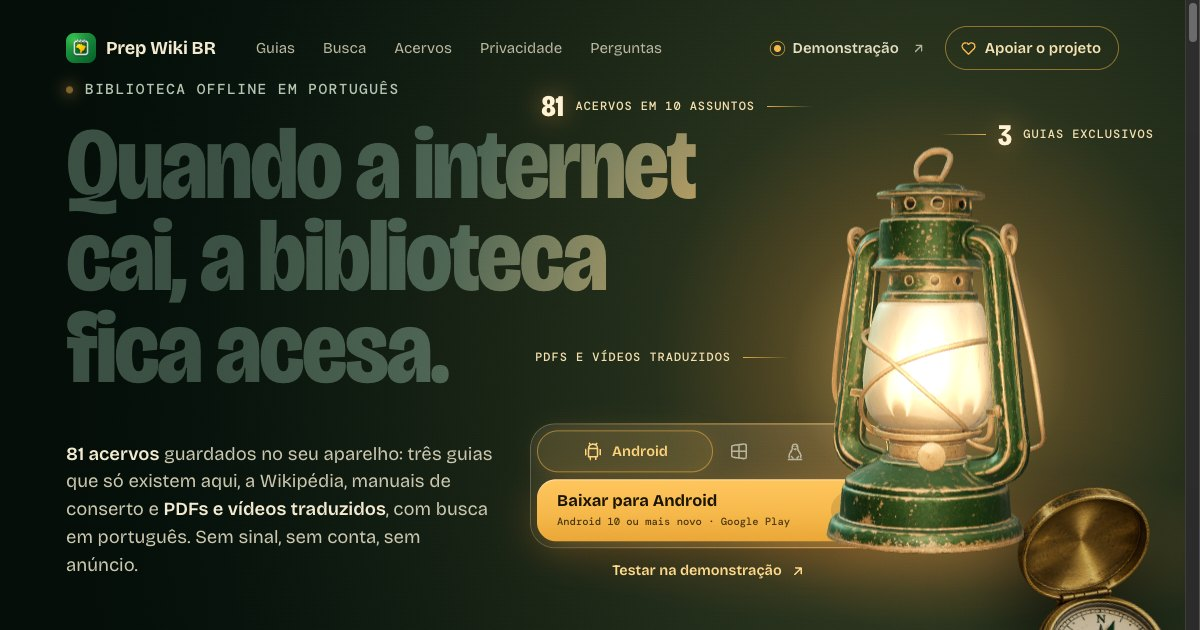
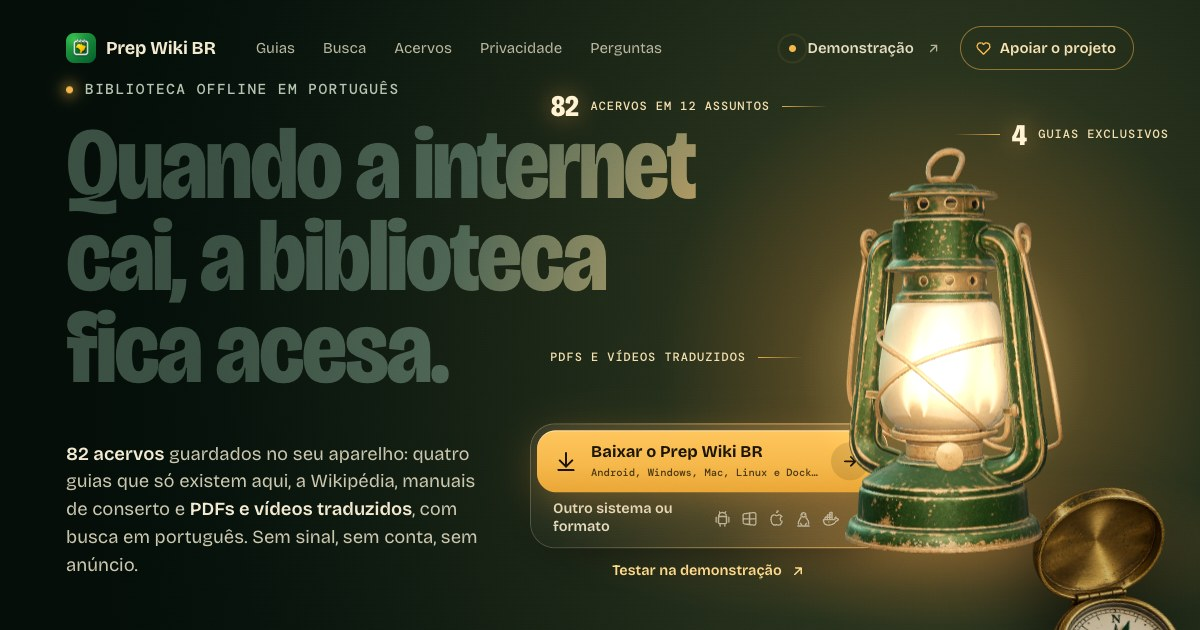
Site: quarto guia em destaque, 82 acervos em 12 assuntos e share nova
O "Lugares seguros no Brasil" abre a seção de guias numa folha deitada,
com selo de novo. Números, lista de acervos e imagem de compartilhamento
acompanham o catálogo (versão 11).

diff --git a/site/index.html b/site/index.html
@@ -4,7 +4,7 @@
 <meta charset="utf-8">
 <meta name="viewport" content="width=device-width, initial-scale=1">
 <title>Prep Wiki BR · biblioteca offline em português</title>
-<meta name="description" content="Uma biblioteca de preparação, autonomia e saúde que funciona sem internet, em português. 81 acervos, três guias próprios e busca dentro de PDFs e vídeos traduzidos.">
+<meta name="description" content="Uma biblioteca de preparação, autonomia e saúde que funciona sem internet, em português. 82 acervos, quatro guias próprios e busca dentro de PDFs e vídeos traduzidos.">
 <link rel="canonical" href="https://prep.bigode.org/">
 <meta name="theme-color" content="#050e09">
 <meta name="color-scheme" content="dark">
@@ -16,7 +16,7 @@
 <meta property="og:type" content="website">
 <meta property="og:url" content="https://prep.bigode.org/">
 <meta property="og:title" content="Prep Wiki BR · biblioteca offline em português">
-<meta property="og:description" content="Quando a internet cai, a biblioteca fica acesa. 81 acervos, três guias próprios e busca dentro de PDFs e vídeos traduzidos.">
+<meta property="og:description" content="Quando a internet cai, a biblioteca fica acesa. 82 acervos, quatro guias próprios e busca dentro de PDFs e vídeos traduzidos.">
 <meta property="og:image" content="https://prep.bigode.org/share.jpg">
 <meta name="twitter:card" content="summary_large_image">
 <link rel="icon" href="favicon.svg">
@@ -105,7 +105,7 @@
   .rolar i { width: 1px; height: 34px; background: linear-gradient(#7f927f, transparent); animation: desce 1.8s ease-in-out infinite; transform-origin: top; }
   @keyframes desce { 0% { transform: scaleY(0); } 60% { transform: scaleY(1); } 100% { transform: scaleY(1); opacity: 0; } }
 
-  /* segunda tela: três folhas de papel iluminadas */
+  /* segunda tela: folhas de papel iluminadas; a do guia mais novo abre a seção, deitada */
   .guias { position: relative; z-index: 1; padding: 14vh 5.5vw 20vh; }
   .guias h2 { font-size: clamp(38px, 5.4vw, 92px); line-height: .92; letter-spacing: -.03em; font-weight: 800; font-stretch: 84%; max-width: 13ch;
     /* o título da segunda tela também é iluminado de cima, pelo mesmo lampião */
@@ -122,6 +122,19 @@
   .folha h3 { margin: 0 10px; font-size: 27px; line-height: 1.02; letter-spacing: -.025em; font-weight: 700; font-stretch: 86%; }
   .guias__nota { margin-top: 5vh; font-size: 16px; color: #9fb39f; } .guias__nota a { color: #f4dfae; text-decoration: underline; text-decoration-color: rgba(246,183,74,.5); text-underline-offset: 4px; }
   .folha p { margin: 10px 10px 0; font-size: 15.5px; line-height: 1.45; color: #45523f; }
+  .folha { position: relative; }
+  .folha--destaque { --r: -1.4deg; }
+  .folha .folha__novo { position: absolute; z-index: 2; top: 26px; left: 26px; margin: 0; padding: 9px 14px 8px; border-radius: 999px; background: var(--ambar); color: #1c1403; line-height: 1; letter-spacing: .1em; box-shadow: 0 8px 20px rgba(0,0,0,.28); }
+  .folha .folha__fatos { display: flex; flex-wrap: wrap; gap: 8px; margin: 18px 10px 0; padding: 0; list-style: none; }
+  .folha__fatos li { padding: 9px 13px 8px; border: 1px solid rgba(23,36,26,.28); border-radius: 999px; color: #17241a; font-size: 11.5px; line-height: 1; }
+  @media (min-width: 901px) {
+    .folha--destaque { grid-column: 1 / -1; display: grid; grid-template-columns: minmax(0, 1.2fr) minmax(0, 1fr); grid-template-rows: 1fr auto auto auto auto 1fr; column-gap: 3.2vw; padding: 16px; margin-bottom: 14px; --r: -.35deg; }
+    .folha--destaque figure { grid-column: 1; grid-row: 1 / -1; aspect-ratio: 16 / 9; }
+    .folha--destaque > p.mono { grid-column: 2; grid-row: 2; margin: 0 0 14px; }
+    .folha--destaque h3 { grid-column: 2; grid-row: 3; margin: 0; max-width: 14ch; font-size: clamp(34px, 3.5vw, 58px); line-height: .96; text-wrap: balance; }
+    .folha--destaque > p:not(.mono) { grid-column: 2; grid-row: 4; margin: 18px 24px 0 0; max-width: 38ch; font-size: 18px; }
+    .folha--destaque .folha__fatos { grid-column: 2; grid-row: 5; margin: 24px 0 0; }
+  }
 
   /* ---- componente de baixar ---- */
   .baixa, .ab svg { fill: none; stroke: currentColor; stroke-linecap: round; stroke-linejoin: round; }
@@ -341,6 +354,7 @@
     .nota, .bussola, .rolar { display: none; }
     :root { --lx: 70vw; --ly: 70vh; }
     .folhas { grid-template-columns: minmax(0, 1fr); }
+    .folha .folha__fatos { gap: 6px; } .folha__fatos li { padding: 8px 10px 7px; font-size: 10.5px; letter-spacing: .05em; }
   }
   /* no celular a primeira tela tem a altura do texto e o lampião fica preso ao cartão de baixar: ao lado
      dele, com a argola na altura do topo do cartão. Antes a posição dependia da altura da janela, e num
@@ -379,7 +393,7 @@
         <span class="l"><span>fica acesa.</span></span>
       </h1>
       <div class="base">
-        <p><b>81 acervos</b> guardados no seu aparelho: três guias que só existem aqui, a Wikipédia, manuais de conserto e <b>PDFs e vídeos traduzidos</b>, com busca em português. Sem sinal, sem conta, sem anúncio.</p>
+        <p><b>82 acervos</b> guardados no seu aparelho: quatro guias que só existem aqui, a Wikipédia, manuais de conserto e <b>PDFs e vídeos traduzidos</b>, com busca em português. Sem sinal, sem conta, sem anúncio.</p>
         <div class="lado">
           <div class="ab">
             <a class="ab__bt" href="baixar.html"><svg class="ab__so" viewBox="0 0 24 24" aria-hidden="true"><path d="M12 4v12M6 11l6 6 6-6M5 20h14"/></svg><span><b class="ab__txt">Baixar o Prep Wiki BR</b><small class="ab__sub">Android, Windows, Mac, Linux e Docker</small></span><svg class="baixa" viewBox="0 0 24 24" aria-hidden="true"><path d="M5 12h14M13 6l6 6-6 6"/></svg></a>
@@ -391,21 +405,22 @@
     </div>
 
     <div class="luz" id="luz"><img class="reserva" src="img/lampiao.png" alt=""><canvas id="lampiao" aria-hidden="true"></canvas></div>
-    <p class="nota nota--dir n1 mono"><b>81</b> acervos em 10 assuntos</p>
-    <p class="nota n2 mono"><b>3</b> guias exclusivos</p>
+    <p class="nota nota--dir n1 mono"><b>82</b> acervos em 12 assuntos</p>
+    <p class="nota n2 mono"><b>4</b> guias exclusivos</p>
     <p class="nota nota--dir n3 mono">PDFs e vídeos traduzidos</p>
     <img class="bussola" src="img/bussola.png" alt="">
     <p class="rolar mono"><i></i>Role para ver os guias</p>
   </section>
 
   <section class="guias" id="guias">
-    <h2>Três guias que <em>só existem aqui.</em></h2>
+    <h2>Quatro guias que <em>só existem aqui.</em></h2>
     <div class="folhas">
-      <article class="folha" style="--r:-2.2deg;--d:0s"><figure><img src="img/sisteminha.jpg" alt="Gravura de um quintal com tanque de peixes, galinheiro e horta" loading="lazy"></figure><p class="mono">Guia · Embrapa · 16 MB</p><h3>Sisteminha: comida no quintal</h3><p>Tanque de peixes com biofiltro, aves, horta e compostagem. Com as 52 perguntas e respostas da Embrapa e uma calculadora de ração.</p></article>
-      <article class="folha" style="--r:.8deg;--d:.1s"><figure><img src="img/plantas.jpg" alt="Gravura de plantas medicinais ao lado de um pilão" loading="lazy"></figure><p class="mono">Guia · Anvisa · 29 MB</p><h3>85 plantas medicinais</h3><p>Fórmula, preparo, dose, advertências e foto de cada planta do Formulário de Fitoterápicos, mais cultivo e uso seguro no SUS.</p></article>
-      <article class="folha" style="--r:2.4deg;--d:.2s"><figure><img src="img/chuva.jpg" alt="Gravura de uma casa no morro sob tempestade" loading="lazy"></figure><p class="mono">Guia · 36 páginas</p><h3>Chuva forte e tempestade</h3><p>O que fazer antes, durante e depois de enchente, deslizamento, vendaval e raio. Cada orientação traz a fonte.</p></article>
+      <article class="folha folha--destaque" style="--d:0s"><span class="folha__novo mono">Novo</span><figure><img src="img/lugares.jpg" alt="Gravura de uma casa no campo com araucárias, horta e caixa-d'água; na frente, um mapa, uma bússola e um binóculo" loading="lazy"></figure><p class="mono">Guia · 64 páginas</p><h3>Lugares seguros no Brasil</h3><p>Onde morar com mais segurança no longo prazo. A nota dos 27 estados em crime, desastres, densidade e autossuficiência, num mapa, com regiões e rotas de fuga.</p><ul class="folha__fatos mono"><li>27 estados</li><li>5 regiões</li><li>8 critérios</li></ul></article>
+      <article class="folha" style="--r:-2.2deg;--d:.1s"><figure><img src="img/sisteminha.jpg" alt="Gravura de um quintal com tanque de peixes, galinheiro e horta" loading="lazy"></figure><p class="mono">Guia · Embrapa · 16 MB</p><h3>Sisteminha: comida no quintal</h3><p>Tanque de peixes com biofiltro, aves, horta e compostagem. Com as 52 perguntas e respostas da Embrapa e uma calculadora de ração.</p></article>
+      <article class="folha" style="--r:.8deg;--d:.2s"><figure><img src="img/plantas.jpg" alt="Gravura de plantas medicinais ao lado de um pilão" loading="lazy"></figure><p class="mono">Guia · Anvisa · 29 MB</p><h3>85 plantas medicinais</h3><p>Fórmula, preparo, dose, advertências e foto de cada planta do Formulário de Fitoterápicos, mais cultivo e uso seguro no SUS.</p></article>
+      <article class="folha" style="--r:2.4deg;--d:.3s"><figure><img src="img/chuva.jpg" alt="Gravura de uma casa no morro sob tempestade" loading="lazy"></figure><p class="mono">Guia · 36 páginas</p><h3>Chuva forte e tempestade</h3><p>O que fazer antes, durante e depois de enchente, deslizamento, vendaval e raio. Cada orientação traz a fonte.</p></article>
     </div>
-    <p class="guias__nota">Escritos a partir de publicações oficiais. Os três somam 46 MB e também abrem em qualquer Kiwix. O Sisteminha e as Plantas Medicinais estão na <a href="https://prep-demo.bigode.org/" target="_blank" rel="noopener">demonstração</a>.</p>
+    <p class="guias__nota">Três vêm de publicações oficiais; o Lugares seguros cruza dados públicos com os critérios de dois livros sobre onde morar. Os quatro somam 47 MB, abrem em qualquer Kiwix e estão na <a href="https://prep-demo.bigode.org/" target="_blank" rel="noopener">demonstração</a>.</p>
   </section>
   <section class="sec busca" id="busca">
     <div class="foco" style="--x:50%;--y:48%"></div>
@@ -430,24 +445,26 @@
   <section class="sec acervos" id="acervos">
     <div class="foco" style="--x:84%;--y:34%"></div>
     <p class="sobre mono"><i></i>Lista escolhida</p>
-    <h2 class="aceso">81 acervos, em <em>10 assuntos.</em></h2>
+    <h2 class="aceso">82 acervos, em <em>12 assuntos.</em></h2>
     <p class="lead">Você instala só o que quiser. Cada acervo tem descrição em português e mostra o tamanho antes de baixar.</p>
     <div class="acervos__grade">
       <ol class="lista">
-          <li data-ver style="--d:0.00s"><span class="n">01</span><h3>Deste projeto<i></i></h3><span class="qt">3 acervos</span><p>Sisteminha Embrapa, Plantas Medicinais, Chuva forte e tempestade</p></li>
-          <li data-ver style="--d:0.05s"><span class="n">02</span><h3>Wikipédia<i></i></h3><span class="qt">6 edições</span><p>Completa ou só os 50 mil melhores artigos. Cada uma com imagens, sem imagens ou resumida</p></li>
-          <li data-ver style="--d:0.10s"><span class="n">03</span><h3>Wikipédia por tema<i></i></h3><span class="qt">9 acervos</span><p>Medicina, Química, Física, Matemática, Biologia molecular e celular, História, Geografia, Computação</p></li>
-          <li data-ver style="--d:0.15s"><span class="n">04</span><h3>Estudo<i></i></h3><span class="qt">4 acervos</span><p>Vikidia, Wikilivros, Wikiversidade e as simulações de ciências do PhET</p></li>
-          <li data-ver style="--d:0.20s"><span class="n">05</span><h3>Consertos<i></i></h3><span class="qt">1 acervo</span><p>iFixit, com guias de conserto passo a passo</p></li>
-          <li data-ver style="--d:0.25s"><span class="n">06</span><h3>Programação<i></i></h3><span class="qt">2 acervos</span><p>Stack Overflow em Português e freeCodeCamp</p></li>
-          <li data-ver style="--d:0.25s"><span class="n">07</span><h3>Livros e textos<i></i></h3><span class="qt">3 acervos</span><p>Wikisource, Projeto Gutenberg e Wikiquote</p></li>
-          <li data-ver style="--d:0.25s"><span class="n">08</span><h3>Língua e viagem<i></i></h3><span class="qt">3 acervos</span><p>Wikcionário, Portuguese Language Q&amp;A e Wikivoyage</p></li>
-          <li data-ver style="--d:0.25s"><span class="n">09</span><h3>Mapas<i></i></h3><span class="qt">2 acervos</span><p>Brasil e América do Sul, com estradas e pontos de referência</p></li>
-          <li data-ver style="--d:0.25s"><span class="n">10</span><h3>Prepper, em inglês<i></i></h3><span class="qt">48 acervos</span><p>Sobrevivência, água e comida, saúde, energia, consertos e vídeos. Abrem em português com o pacote de tradução</p></li>
+          <li data-ver style="--d:0.00s"><span class="n">01</span><h3>Deste projeto<i></i></h3><span class="qt">4 acervos</span><p>Sisteminha Embrapa, Plantas Medicinais, Chuva forte e tempestade, Lugares seguros no Brasil</p></li>
+          <li data-ver style="--d:0.05s"><span class="n">02</span><h3>Emergências e preparação<i></i></h3><span class="qt">15 acervos</span><p>Biblioteca pós-desastre, Ready.gov, manuais do Exército dos EUA, nós, rádio amador e canais de vídeo</p></li>
+          <li data-ver style="--d:0.10s"><span class="n">03</span><h3>Água, comida e horta<i></i></h3><span class="qt">10 acervos</span><p>Tratamento de água, conservas caseiras, horta, cozinha e estoque de comida</p></li>
+          <li data-ver style="--d:0.15s"><span class="n">04</span><h3>Saúde<i></i></h3><span class="qt">11 acervos</span><p>Wikipédia de Medicina, MedlinePlus, remédios de A a Z, saúde do viajante e medicina de campo</p></li>
+          <li data-ver style="--d:0.20s"><span class="n">05</span><h3>Energia e baixa tecnologia<i></i></h3><span class="qt">6 acervos</span><p>Low-tech Magazine, Appropedia, energypedia, CD3WD e Permacomputing</p></li>
+          <li data-ver style="--d:0.25s"><span class="n">06</span><h3>Consertos e habilidades<i></i></h3><span class="qt">8 acervos</span><p>iFixit, Restarters e perguntas e respostas sobre casa, carro, elétrica, marcenaria e bicicleta</p></li>
+          <li data-ver style="--d:0.25s"><span class="n">07</span><h3>Wikipédia<i></i></h3><span class="qt">6 edições</span><p>Completa ou só os 50 mil melhores artigos. Cada uma com imagens, sem imagens ou resumida</p></li>
+          <li data-ver style="--d:0.25s"><span class="n">08</span><h3>Estudo e ciências<i></i></h3><span class="qt">10 acervos</span><p>Vikidia, Wikilivros, Wikiversidade, PhET e a Wikipédia de Química, Física, Matemática, Biologia, História e Geografia</p></li>
+          <li data-ver style="--d:0.25s"><span class="n">09</span><h3>Programação e computação<i></i></h3><span class="qt">3 acervos</span><p>Stack Overflow em Português, freeCodeCamp e a Wikipédia de Computação</p></li>
+          <li data-ver style="--d:0.25s"><span class="n">10</span><h3>Livros e textos<i></i></h3><span class="qt">3 acervos</span><p>Wikisource, Projeto Gutenberg e Wikiquote</p></li>
+          <li data-ver style="--d:0.25s"><span class="n">11</span><h3>Língua e viagem<i></i></h3><span class="qt">3 acervos</span><p>Wikcionário, Portuguese Language Q&amp;A e Wikivoyage</p></li>
+          <li data-ver style="--d:0.25s"><span class="n">12</span><h3>Mapas e referência<i></i></h3><span class="qt">3 acervos</span><p>Brasil e América do Sul, com estradas e pontos de referência, e o CIA World Factbook</p></li>
       </ol>
       <div class="acervos__lado">
         <figure class="acervos__arte" data-ver><img src="img/caderno.jpg" alt="Caderno de campo com uma lista: água, lanterna, canivete, rádio, kit de primeiros socorros e mapa" loading="lazy" width="820" height="820"></figure>
-        <p class="acervos__nota">Um conjunto enxuto em português (os três guias, a Wikipédia dos 50 mil melhores artigos, Medicina, iFixit, Estudo e Língua e viagem) fica em torno de 8 GB.</p>
+        <p class="acervos__nota">Um conjunto enxuto em português (os quatro guias, a Wikipédia dos 50 mil melhores artigos, Medicina, iFixit, Estudo e Língua e viagem) fica em torno de 8 GB. Dos 82 acervos, 48 são em inglês e abrem em português com o pacote de tradução.</p>
       </div>
     </div>
     <div class="fontes" aria-label="Entre as fontes: Wikipédia, iFixit, Projeto Gutenberg, Wikcionário, Wikilivros, PhET, Wikivoyage, freeCodeCamp, Appropedia, Wikiversidade, Vikidia, CD3WD, Wikiquote, Stack Overflow, MedlinePlus, Low-tech Magazine">
@@ -498,7 +515,7 @@
     <div class="faq">
         <div class="faq__item aberto"><button type="button" aria-expanded="true">Precisa de internet para usar?<i></i></button><div class="faq__r"><div><p>Só para baixar. Depois de baixado, cada acervo abre, busca e traduz sem conexão.</p></div></div></div>
         <div class="faq__item"><button type="button" aria-expanded="false">Dá para testar antes de instalar?<i></i></button><div class="faq__r"><div><p>Dá. A <a href="https://prep-demo.bigode.org/" target="_blank" rel="noopener">demonstração ao vivo</a> abre no navegador com 7 acervos de exemplo, sem instalar nada.</p></div></div></div>
-        <div class="faq__item"><button type="button" aria-expanded="false">Quanto espaço ocupa?<i></i></button><div class="faq__r"><div><p>Você decide. Os três guias do projeto somam 46 MB, e um conjunto enxuto em português fica em torno de 8 GB. O tamanho de cada acervo aparece antes de baixar.</p></div></div></div>
+        <div class="faq__item"><button type="button" aria-expanded="false">Quanto espaço ocupa?<i></i></button><div class="faq__r"><div><p>Você decide. Os quatro guias do projeto somam 47 MB, e um conjunto enxuto em português fica em torno de 8 GB. O tamanho de cada acervo aparece antes de baixar.</p></div></div></div>
         <div class="faq__item"><button type="button" aria-expanded="false">Em quais aparelhos funciona?<i></i></button><div class="faq__r"><div><p>No celular, em Android 10 ou mais novo, de 64 bits. No computador, em Windows, Mac e Linux; veja <a href="baixar.html">como instalar</a> em cada um. Pelo Docker, roda num PC ou num Raspberry Pi 4 ou 5 e serve a casa toda pelo navegador; veja o <a href="docker.html">passo a passo</a>.</p></div></div></div>
         <div class="faq__item"><button type="button" aria-expanded="false">A tradução é confiável?<i></i></button><div class="faq__r"><div><p>É feita por máquina, dentro do aparelho, e serve para entender o texto. Em doses, medidas e números, confira o original, que fica a um toque.</p></div></div></div>
         <div class="faq__item"><button type="button" aria-expanded="false">É grátis mesmo?<i></i></button><div class="faq__r"><div><p>É. Não tem anúncio, cadastro nem versão paga. Quem quiser pode apoiar o projeto; o apoio não libera nada.</p></div></div></div>
@@ -540,7 +557,7 @@
 
 <footer class="rodape">
   <div><a class="marca" href="#"><img src="img/icone-96.png" alt="">Prep Wiki BR</a><p>Uma biblioteca de preparação, autonomia e saúde que funciona sem internet, em português.</p></div>
-  <div><h4>Guias</h4><ul><li><a href="#guias">Sisteminha Embrapa</a></li><li><a href="#guias">Plantas Medicinais</a></li><li><a href="#guias">Chuva forte e tempestade</a></li></ul></div>
+  <div><h4>Guias</h4><ul><li><a href="#guias">Sisteminha Embrapa</a></li><li><a href="#guias">Plantas Medicinais</a></li><li><a href="#guias">Chuva forte e tempestade</a></li><li><a href="#guias">Lugares seguros no Brasil</a></li></ul></div>
   <div><h4>Nesta página</h4><ul><li><a href="#busca">Busca</a></li><li><a href="#acervos">Acervos</a></li><li><a href="#passos">Como começar</a></li><li><a href="#perguntas">Perguntas</a></li></ul></div>
   <div><h4>Projeto</h4><ul><li><a href="baixar.html">Baixar e instalar</a></li><li><a href="docker.html">Instalar com Docker</a></li><li><a href="https://prep-demo.bigode.org/" target="_blank" rel="noopener">Demonstração ao vivo</a></li><li><a href="https://github.com/wdonega/prep-wiki-br" target="_blank" rel="noopener">Código no GitHub</a></li><li><a href="#apoiar">Apoiar o projeto</a></li><li><a href="https://github.com/wdonega/prep-wiki-br/issues" target="_blank" rel="noopener">Relatar um problema</a></li></ul></div>
   <div><h4>Termos</h4><ul><li><a href="https://github.com/wdonega/prep-wiki-br/blob/main/docs/privacidade.md" target="_blank" rel="noopener">Política de privacidade</a></li><li><a href="https://github.com/wdonega/prep-wiki-br/blob/main/docs/termos.md" target="_blank" rel="noopener">Termos de uso</a></li><li><a href="mailto:support@bigode.org">support@bigode.org</a></li></ul></div>
@@ -617,7 +634,8 @@
   }
   ajustar(); requestAnimationFrame(quadro);
 
-  new IntersectionObserver(function (es, o) { es.forEach(function (e) { if (e.isIntersecting) { e.target.classList.add('visto'); o.unobserve(e.target); } }); }, { threshold: .25 }).observe(document.getElementById('guias'));
+  // as folhas aparecem quando a primeira entra na tela; medir pela seção inteira falha em tela baixa, porque ela é alta
+  new IntersectionObserver(function (es, o) { es.forEach(function (e) { if (e.isIntersecting) { document.getElementById('guias').classList.add('visto'); o.unobserve(e.target); } }); }, { threshold: .2 }).observe(document.querySelector('#guias .folha'));
 })();
 </script>
 <script>

diff --git a/site/docker.html b/site/docker.html
@@ -247,7 +247,7 @@
     <div>
       <h2 class="aceso">Escolha e baixe os acervos</h2>
       <p class="txt">Marque o que interessa e clique em <b>Baixar</b>. Os downloads entram numa fila, um de cada vez, e cada acervo aparece na biblioteca assim que termina. Se a internet cair no meio, ele continua de onde parou.</p>
-      <p class="txt">Para começar leve: os três guias do projeto e uma Wikipédia resumida. Dá para baixar mais depois.</p>
+      <p class="txt">Para começar leve: os quatro guias do projeto e uma Wikipédia resumida. Dá para baixar mais depois.</p>
       <p class="nota">Quer ver como fica antes? A <a href="https://prep-demo.bigode.org/" target="_blank" rel="noopener">demonstração</a> é uma instalação igual a esta, com 7 acervos.</p>
     </div>
   </section>

diff --git a/site/mac.html b/site/mac.html
@@ -207,7 +207,7 @@
     <div>
       <h2 class="aceso">Abra e escolha os acervos</h2>
       <p class="txt">Abra o <b>Prep Wiki BR</b> em Aplicativos ou pelo Launchpad. Na primeira vez a biblioteca está vazia e você cai direto na tela de baixar conteúdo: marque o que interessa e clique em <b>Baixar</b>.</p>
-      <p class="txt">Para começar leve: os três guias do projeto e uma Wikipédia resumida. Dá para baixar mais depois.</p>
+      <p class="txt">Para começar leve: os quatro guias do projeto e uma Wikipédia resumida. Dá para baixar mais depois.</p>
       <p class="nota">Quer ver como fica antes? A <a href="https://prep-demo.bigode.org/" target="_blank" rel="noopener">demonstração</a> é uma instalação igual a esta, com 7 acervos.</p>
     </div>
   </section>

diff --git a/site/README.md b/site/README.md
@@ -33,7 +33,7 @@ Para publicar na mão: `cd site && npx wrangler deploy --name prep-wiki-br-site`
 | `img/` | Gravuras, recortes, capturas do app e o QR do PIX. |
 | `modelos/lampiao.glb` | O lampião em 3D da primeira tela (6 MB). |
 | `vendor/` | O three.js (r134), o carregador de GLTF e a licença. |
-| `favicon.svg`, `share.jpg` | O ícone e a imagem que aparece quando o link é compartilhado. |
+| `favicon.svg`, `share.jpg` | O ícone e a imagem que aparece quando o link é compartilhado: uma captura da primeira tela em 1200 × 630, que mostra os números de acervos e de guias. |
 
 ## Como a página é feita
 
@@ -42,6 +42,7 @@ Nove seções, nesta ordem: primeira tela (`#palco`), `#guias`, `#busca`, `#acer
 - **A luz.** O tema é um lampião aceso no escuro. Na primeira tela, a posição da chama vira as variáveis de CSS `--lx` e `--ly`, e a tremulação vira `--f`; o clarão do fundo (`.clarao`, `.chama`), o título e a borda do cartão de baixar leem essas variáveis. Nas outras seções, cada uma tem um foco fixo (`.foco`, com `--x` e `--y`), e o título dela (`.aceso`) é iluminado a partir dele.
 - **O lampião 3D.** Um canvas do three.js com o `lampiao.glb`. Gira com o ponteiro e com a rolagem, e só é redesenhado enquanto a primeira tela está à vista. Se o WebGL falhar, fica a imagem `img/lampiao.png`.
 - **O cartão de baixar (`.ab`).** Aparece na primeira tela e no fecho. O botão leva direto ao sistema de quem visita, a partir da tabela `SO` no script: Windows baixa o instalador na hora, e Android, Mac, Linux e Docker abrem a `baixar.html` na aba certa. O Android vai ao passo a passo do teste fechado (entrar no grupo `prep-wiki-br-testadores` e virar testador); o botão 2 dessa aba troca o link da página de teste na web pelo da loja quando o visitante está num Android, porque a Play Console dá um link para cada. No Linux o botão não baixa direto porque o navegador não diz a distribuição nem se é ARM. Embaixo, o link "Outro sistema ou formato" (no celular, "Outros") mostra os ícones dos outros sistemas e leva à `baixar.html`. Quem não tem versão própria (iPhone, iPad) cai no Docker.
+- **Os guias (`#guias`).** O guia mais novo abre a seção numa folha deitada (`.folha--destaque`), com o selo "Novo" e três fatos; os outros vêm embaixo, em folhas de pé, três por linha. Quando entrar outro guia, ele assume o destaque e o anterior vira folha comum. Depois confira os números da tabela abaixo e tire a `share.jpg` de novo.
 - **A busca que digita sozinha.** A lista `BUSCAS` no script tem as duas perguntas e os resultados mostrados. São resultados reais, anotados do app; ao trocar, use outros reais.
 - **O que entra na tela aparece.** Qualquer elemento com o atributo `data-ver` ganha a classe `visto` ao entrar na tela.
 - **Movimento reduzido.** Com `prefers-reduced-motion`, as animações são encurtadas e a busca mostra o resultado direto.
@@ -60,9 +61,9 @@ A página repete alguns números e fatos do projeto. Ao mudar um, procure os out
 
 | Fato | Onde aparece | De onde vem |
 |---|---|---|
-| 81 acervos, 10 assuntos, 3 guias | primeira tela, `<meta>` de descrição, `#acervos`, perguntas | [`manager/catalogo.json`](../manager/catalogo.json) |
-| A lista dos 10 grupos | `#acervos` | o mesmo catálogo |
-| Tamanho dos guias (16 MB, 29 MB, 46 MB no total) | `#guias`, perguntas | as releases das wikis |
+| 82 acervos, 12 assuntos, 4 guias | primeira tela, `<meta>` de descrição, `#guias`, `#acervos`, perguntas, rodapé, `share.jpg`; "os quatro guias" também na `docker.html` e na `mac.html` | [`manager/catalogo.json`](../manager/catalogo.json) |
+| A lista dos 12 grupos | `#acervos` | o mesmo catálogo |
+| Tamanho dos guias (16 MB, 29 MB, 47 MB no total) | `#guias`, perguntas | as releases das wikis |
 | Endereços de download | a tabela `SO` no script do `index.html`; os links e as tabelas `REL`, `F` e `D` da `baixar.html` | Google Play, release `desktop-v…` |
 | Versão do app de desktop (0.1.0) e tamanhos dos pacotes | `baixar.html` (texto, links e tabela `F`), subtítulo do Windows no `index.html` | a release `desktop-v…`; numa versão nova, troque `0.1.0` e os tamanhos nos dois arquivos |
 | Comandos de instalar e remover no Linux, pasta dos acervos | a tabela `D` e a função `linux()` da `baixar.html` | `desktop/package.json` (nome do pacote) e `desktop/main.js` (pasta de dados) |
@@ -81,7 +82,7 @@ A página repete alguns números e fatos do projeto. Ao mudar um, procure os out
 
 | Imagem | Origem |
 |---|---|
-| `sisteminha`, `plantas`, `chuva` (gravuras) | Geradas com IA (Meshy), no estilo da arte do projeto. |
+| `sisteminha`, `plantas`, `chuva`, `lugares` (gravuras) | Geradas com IA (Meshy), no estilo da arte do projeto. A `lugares` veio com a borda escura, tirada depois; o original está em `rascunhos/gravuras/`. |
 | `lampiao.png`, `bussola.png`, `radio.png` | Geradas com IA (Meshy), a partir da arte do projeto. |
 | `modelos/lampiao.glb` | Gerado com IA (Meshy), a partir de `lampiao.png`. |
 | `caderno.jpg`, `icone-96.png` | A arte e o ícone do projeto, de [`arte/`](../arte). |
